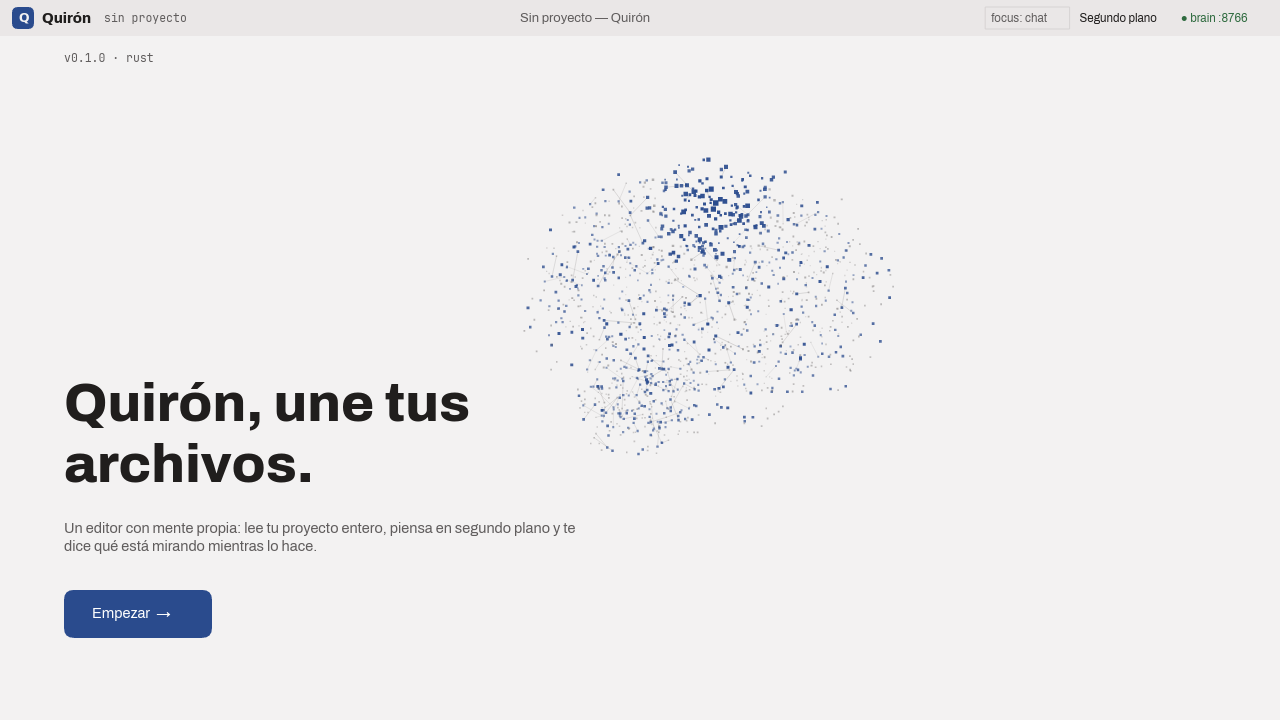
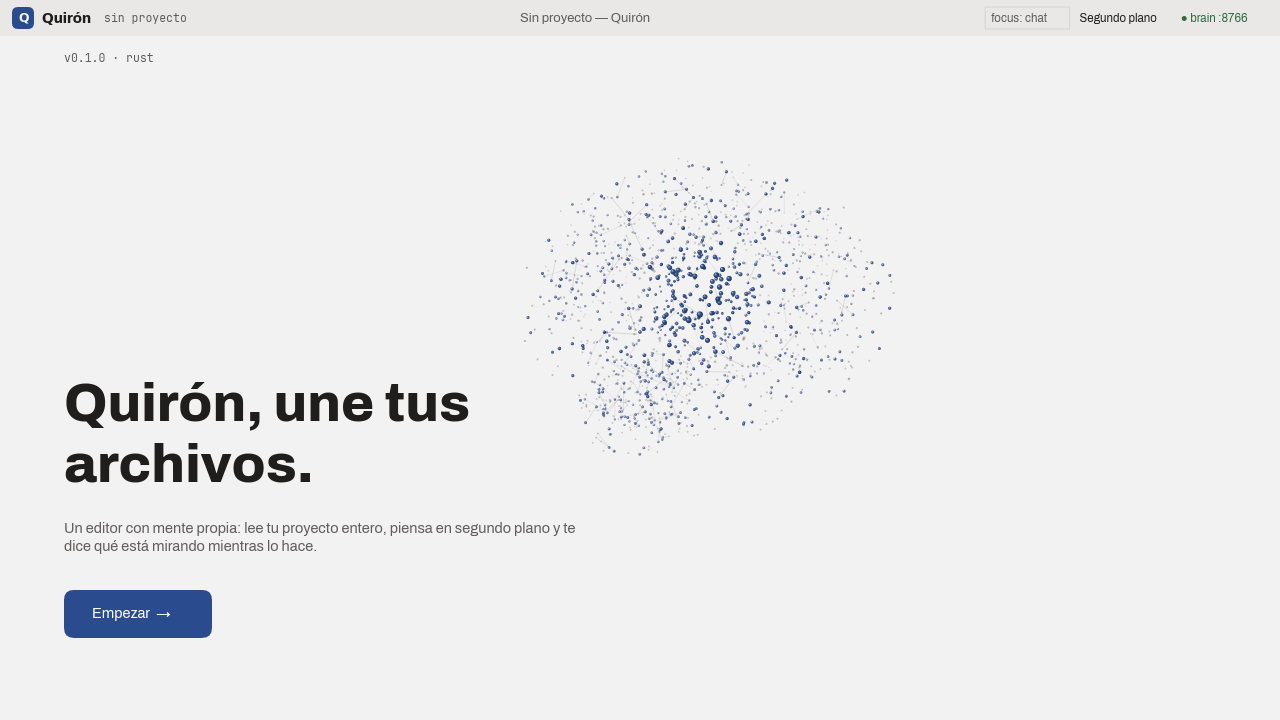
Bienvenida: puntos redondos y bolas sombreadas en el holograma
El lienzo gana `fill_circle` (círculo con antialiasing) y `fill_sphere`
(círculo con degradado radial: brillo arriba a la izquierda y sombra hacia
el borde, alfa conservado). Los puntos acentuados y los encendidos bajo el
cursor se pintan como bolas; los grises pequeños, como discos. 7,9 ms por
fotograma de media.

Changed region(s): [[0.4062, 0.2139, 0.6875, 0.6111]]

diff --git a/Quirón/llore_editor/crates/llore_ui/src/paint.rs b/Quirón/llore_editor/crates/llore_ui/src/paint.rs
@@ -7,6 +7,7 @@ use std::collections::HashMap;
 use tiny_skia::{
     FillRule, IntSize, Paint, PathBuilder, Pixmap, PixmapPaint, PremultipliedColorU8, Rect, Stroke, Transform,
 };
+use tiny_skia::{GradientStop, Point, RadialGradient, SpreadMode};
 
 /// Color RGBA
 #[derive(Debug, Clone, Copy, PartialEq)]
@@ -273,6 +274,60 @@ impl Canvas {
         let mut paint = Paint::default();
         paint.set_color(color.to_skia_color());
 
+        self.pixmap.fill_path(
+            &path,
+            &paint,
+            FillRule::Winding,
+            self.transform(),
+            None,
+        );
+    }
+
+    /// Dibuja un círculo relleno, con antialiasing: para puntos pequeños (2–6 px)
+    /// un rectángulo se ve como un píxel cuadrado; esto se ve redondo.
+    pub fn fill_circle(&mut self, cx: f32, cy: f32, radius: f32, color: Color) {
+        let Some(path) = PathBuilder::from_circle(cx, cy, radius) else {
+            return;
+        };
+        let mut paint = Paint::default();
+        paint.set_color(color.to_skia_color());
+        self.pixmap.fill_path(
+            &path,
+            &paint,
+            FillRule::Winding,
+            self.transform(),
+            None,
+        );
+    }
+
+    /// Dibuja una bola: un círculo con degradado radial —brillo desplazado
+    /// arriba a la izquierda y sombra hacia el borde— que a 3–8 px se lee con
+    /// volumen, no como un disco plano. Conserva el alfa del color.
+    pub fn fill_sphere(&mut self, cx: f32, cy: f32, radius: f32, color: Color) {
+        let Some(path) = PathBuilder::from_circle(cx, cy, radius) else {
+            return;
+        };
+        let mezcla = |hacia: u8, k: f32| -> tiny_skia::Color {
+            let m = |v: u8| (v as f32 + (hacia as f32 - v as f32) * k).round().clamp(0.0, 255.0) as u8;
+            tiny_skia::Color::from_rgba8(m(color.r), m(color.g), m(color.b), color.a)
+        };
+        let sombreado = RadialGradient::new(
+            Point::from_xy(cx - radius * 0.42, cy - radius * 0.42),
+            Point::from_xy(cx, cy),
+            radius * 1.15,
+            vec![
+                GradientStop::new(0.0, mezcla(255, 0.62)),
+                GradientStop::new(0.45, color.to_skia_color()),
+                GradientStop::new(1.0, mezcla(0, 0.45)),
+            ],
+            SpreadMode::Pad,
+            self.transform(),
+        );
+        let mut paint = Paint::default();
+        match sombreado {
+            Some(shader) => paint.shader = shader,
+            None => paint.set_color(color.to_skia_color()),
+        }
         self.pixmap.fill_path(
             &path,
             &paint,

diff --git a/Quirón/llore_editor/crates/llore_ui/src/bin/llore_gui.rs b/Quirón/llore_editor/crates/llore_ui/src/bin/llore_gui.rs
@@ -3192,7 +3192,9 @@ fn draw_brain_hologram(
             let d = ((sx - mx).powi(2) + (sy - my).powi(2)).sqrt();
             (1.0 - d / radio).clamp(0.0, 1.0)
         });
-        let d = (if fuerte { 2.6 } else { 1.7 })
+        // Diámetro: un círculo se percibe algo más pequeño que un cuadrado
+        // del mismo lado, de ahí el factor.
+        let d = (if fuerte { 3.0 } else { 2.0 })
             * (0.65 + 0.7 * c)
             * escala.max(0.6)
             * (1.0 + 0.9 * brillo);
@@ -3202,7 +3204,14 @@ fn draw_brain_hologram(
         } else {
             apagado.with_alpha((28.0 + 96.0 * c) as u8)
         };
-        canvas.fill_rect(Bounds::new(sx - d * 0.5, sy - d * 0.5, d, d), color);
+        // Bolas con volumen para los puntos acentuados y los encendidos; los
+        // grises pequeños, discos: a dos píxeles no se distinguen y así el
+        // fotograma no se encarece.
+        if fuerte || brillo > 0.35 {
+            canvas.fill_sphere(sx, sy, d * 0.5, color);
+        } else {
+            canvas.fill_circle(sx, sy, d * 0.5, color);
+        }
     }
 }
 

diff --git a/docs/CIERRE_2026-09-05.md b/docs/CIERRE_2026-09-05.md
@@ -512,3 +512,10 @@ horizontal, cabeceo por la vertical) con inercia, y los puntos bajo el cursor
 crecen y se encienden en el acento, con caída suave al borde del radio; sin
 cursor vuelve despacio al reposo. Captura con el cursor sobre la nube en
 `gui-bienvenida/gui-cursor.png` (arnés `--cursor X Y`, vía `hyprctl movecursor`).
+
+Los puntos ya no son cuadrados: `fill_circle` (círculo con antialiasing de
+tiny-skia) para los grises pequeños y `fill_sphere` para los acentuados y los
+encendidos —círculo con degradado radial, brillo desplazado arriba a la
+izquierda y sombra hacia el borde, alfa conservado—, que a 3–8 px se leen como
+bolas. Fotograma de la bienvenida: 7,9 ms de media, 15,9 de máximo. Ampliación
+×4 de la nube bajo el cursor en `gui-bienvenida/gui-cursor-zoom.png`.
